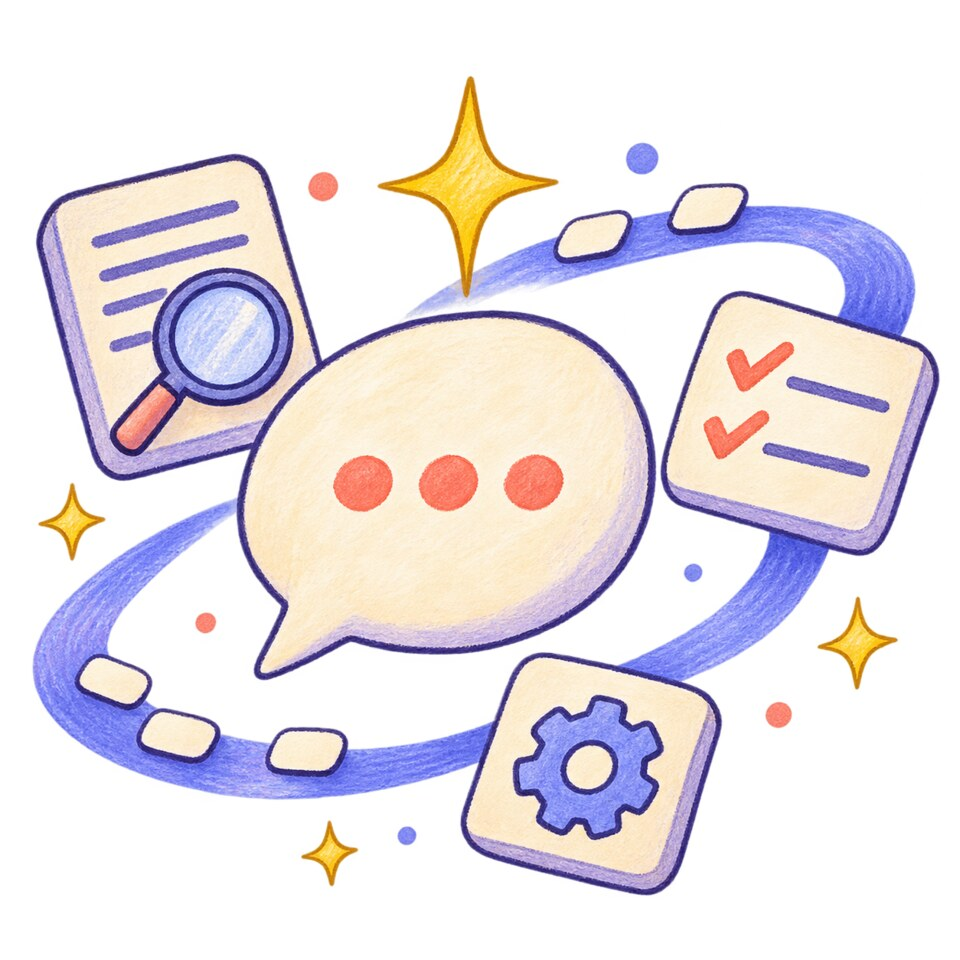
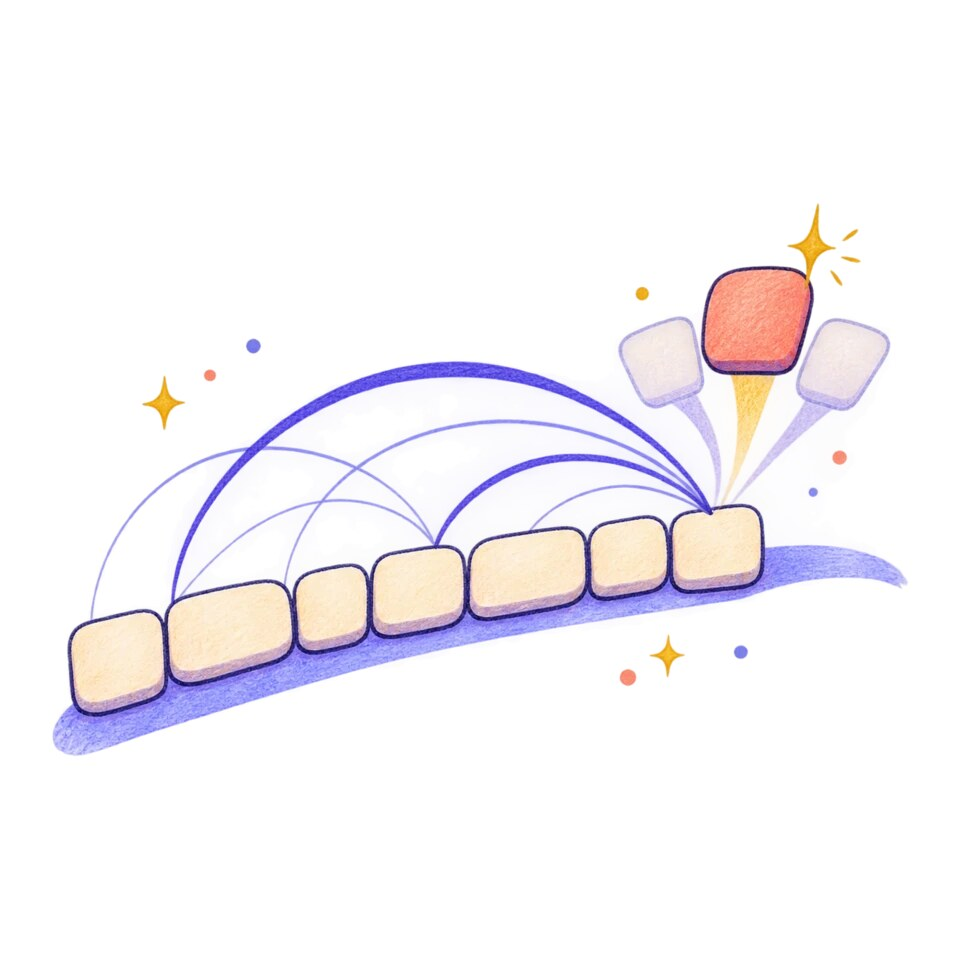
Иллюстрация главной: генерация следующего токена
Прежняя картинка с облачком и карточками плохо связывалась с темой.
Новая показывает ряд токенов, дуги внимания и выбор следующего токена
из кандидатов. Обложка для превью заменена той же картинкой.

diff --git a/docs/index.md b/docs/index.md
@@ -6,8 +6,8 @@ hero:
   text: Практическое руководство по работе с LLM
   tagline: От постановки задач до автоматизации, агентов и собственных инструментов.
   image:
-    src: /images/model-dialogue-hero.webp
-    alt: Облачко ответа модели, поток токенов и карточки с документом, чек-листом и шестерёнкой
+    src: /images/next-token-hero.webp
+    alt: Ряд токенов с дугами внимания и выбор следующего токена из нескольких кандидатов
     width: 960
     height: 960
   actions:
